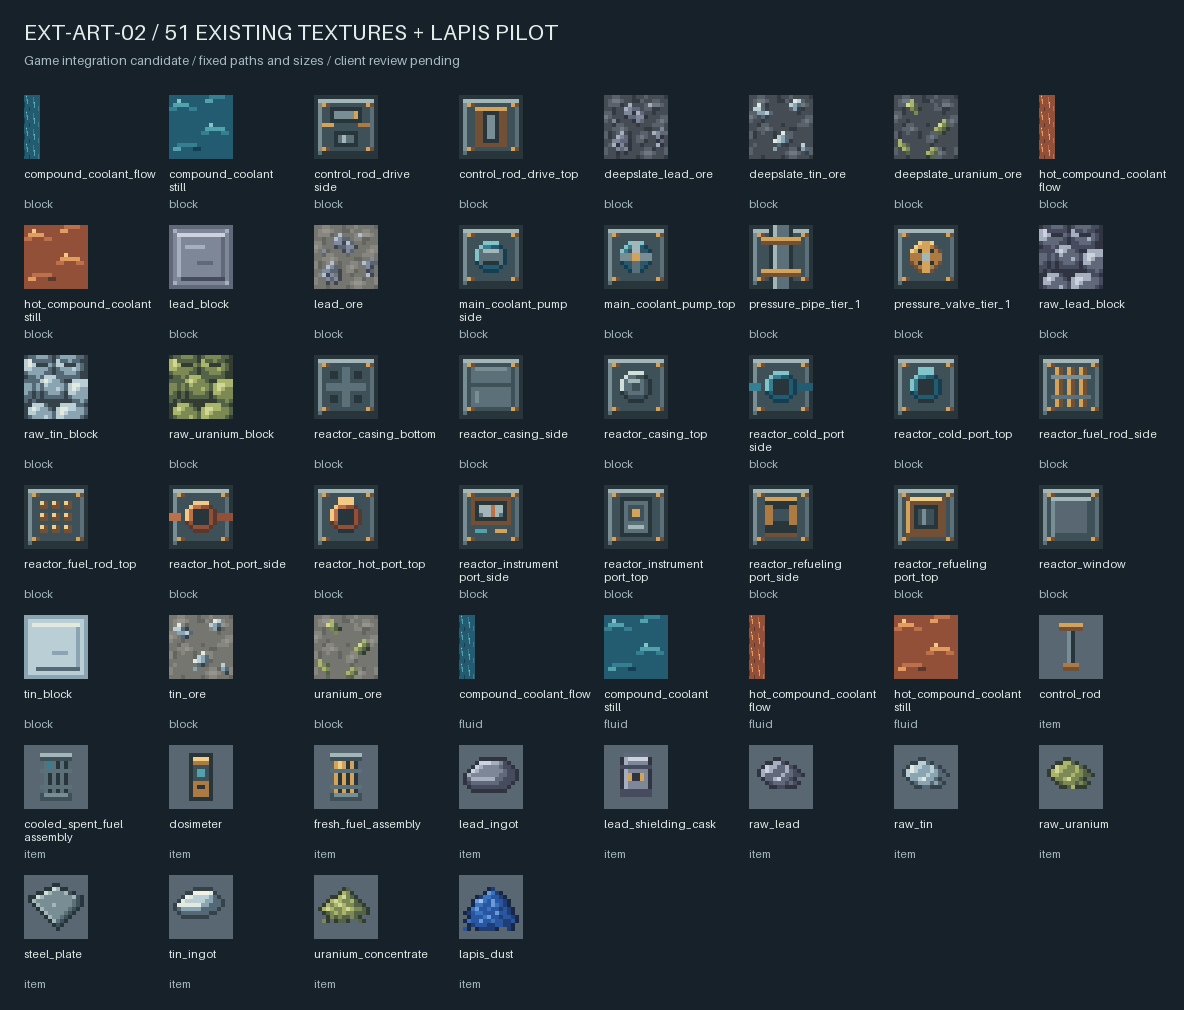
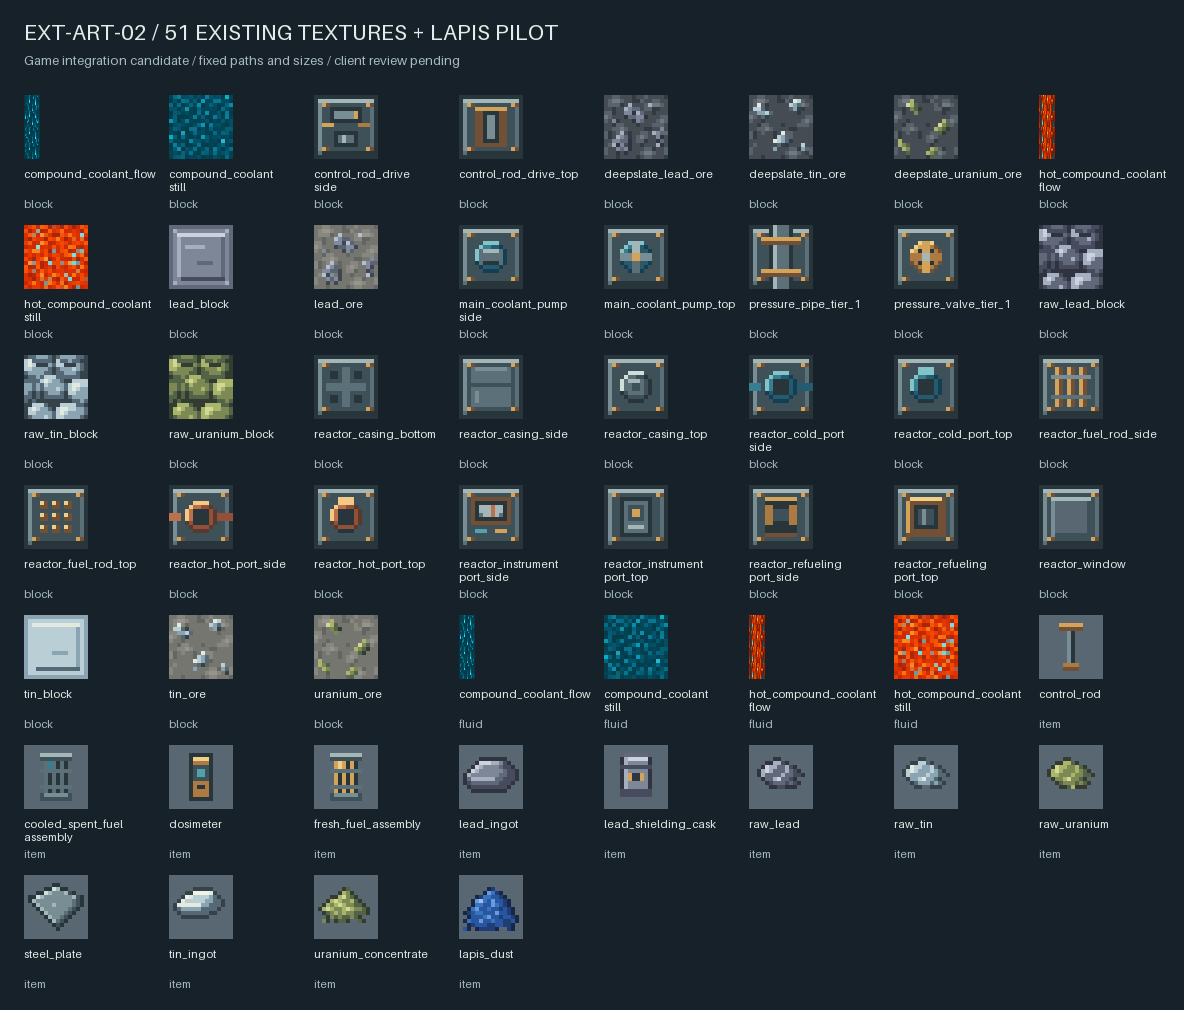
恢复两种冷却剂旧贴图并防止批量导出覆盖

diff --git a/tools/art-assets/preview.html b/tools/art-assets/preview.html
@@ -1,1 +1,1 @@
-<!doctype html><html lang="zh-CN"><meta charset="utf-8"><title>EXT-ART-02 全量贴图对照</title><style>body{background:#17212a;color:#e3ece8;font:16px system-ui;margin:24px}figure{margin:24px 0}img{max-width:100%;height:auto;image-rendering:pixelated}figcaption{margin-top:8px}</style><h1>EXT-ART-02 全量贴图对照</h1><p>原路径 51 张重绘，另保留青金石粉候选。每页含前后、原尺寸、明暗底与平铺；屏幕缩放会改变原尺寸显示。客户端视觉验收待用户完成。</p><figure><img src="previews/minerals-1.png" alt="previews/minerals-1.png"><figcaption>previews/minerals-1.png</figcaption></figure><figure><img src="previews/minerals-2.png" alt="previews/minerals-2.png"><figcaption>previews/minerals-2.png</figcaption></figure><figure><img src="previews/reactor-1.png" alt="previews/reactor-1.png"><figcaption>previews/reactor-1.png</figcaption></figure><figure><img src="previews/reactor-2.png" alt="previews/reactor-2.png"><figcaption>previews/reactor-2.png</figcaption></figure><figure><img src="previews/reactor-3.png" alt="previews/reactor-3.png"><figcaption>previews/reactor-3.png</figcaption></figure><figure><img src="previews/items-1.png" alt="previews/items-1.png"><figcaption>previews/items-1.png</figcaption></figure><figure><img src="previews/items-2.png" alt="previews/items-2.png"><figcaption>previews/items-2.png</figcaption></figure><figure><img src="previews/coolant-1.png" alt="previews/coolant-1.png"><figcaption>previews/coolant-1.png</figcaption></figure></html>
+<!doctype html><html lang="zh-CN"><meta charset="utf-8"><title>EXT-ART-02 全量贴图对照</title><style>body{background:#17212a;color:#e3ece8;font:16px system-ui;margin:24px}figure{margin:24px 0}img{max-width:100%;height:auto;image-rendering:pixelated}figcaption{margin-top:8px}</style><h1>EXT-ART-02 全量贴图对照</h1><p>51 个原路径：43 张保留重绘，8 张冷却剂按 EXT-ART-02A 恢复原图，另保留青金石粉候选。冷却剂 BEFORE 为重绘前原图，RESTORED 为本次恢复结果。每页含原尺寸、明暗底与平铺；屏幕缩放会改变原尺寸显示。冷却剂客户端视觉复验待用户完成。</p><figure><img src="previews/minerals-1.png" alt="previews/minerals-1.png"><figcaption>previews/minerals-1.png</figcaption></figure><figure><img src="previews/minerals-2.png" alt="previews/minerals-2.png"><figcaption>previews/minerals-2.png</figcaption></figure><figure><img src="previews/reactor-1.png" alt="previews/reactor-1.png"><figcaption>previews/reactor-1.png</figcaption></figure><figure><img src="previews/reactor-2.png" alt="previews/reactor-2.png"><figcaption>previews/reactor-2.png</figcaption></figure><figure><img src="previews/reactor-3.png" alt="previews/reactor-3.png"><figcaption>previews/reactor-3.png</figcaption></figure><figure><img src="previews/items-1.png" alt="previews/items-1.png"><figcaption>previews/items-1.png</figcaption></figure><figure><img src="previews/items-2.png" alt="previews/items-2.png"><figcaption>previews/items-2.png</figcaption></figure><figure><img src="previews/coolant-1.png" alt="previews/coolant-1.png"><figcaption>previews/coolant-1.png</figcaption></figure></html>

diff --git a/tools/art-assets/pipeline.py b/tools/art-assets/pipeline.py
@@ -1,7 +1,7 @@
 """EXT-ART-02 固定白名单管线，先验证全部输入，再输出候选或显式接入游戏。
 
 无游戏逻辑、注册、模型或动画修改。清单仅允许基线 51 PNG 和一个工具候选；
-保留完整 flow 画布，block/fluid 的兼容路径明确共用一张源稿。
+保留完整 flow 画布；EXT-ART-02A 的八项冷却剂按各自原始 PNG 保留。
 """
 import argparse
 import hashlib
@@ -67,6 +67,19 @@ item/steel_plate.png
 item/tin_ingot.png
 item/uranium_concentrate.png'''.splitlines())
 
+# 用户批准的原始 PNG 例外，路径与哈希均冻结；不能借 manifest 导入任意位图。
+# block/fluid 分别核对，即使当前字节相同也不以兼容路径替代原图。
+RETAINED_ORIGINALS = {
[8 lines of base64/hex data omitted]
+}
+
 
 def load_manifest():
     """验证路径、尺寸、用途及兼容映射，禁止 manifest 扩大游戏写集。"""
@@ -82,7 +95,11 @@ def load_manifest():
     if sum(e.get('game') is None for e in entries)!=1:
         raise ValueError('只能有一个工具候选')
     for e in entries:
-        if set(e)!={'game','source','palette','size','kind','group','use'}:
+        fields={'game','source','palette','size','kind','group','use'}
+        if e['game'] in RETAINED_ORIGINALS:
+            fields.add('preserve')
+            if e.get('preserve')!='baseline-original':raise ValueError('冷却剂必须保留已批准原图')
+        if set(e)!=fields:
             raise ValueError('manifest 记录字段不匹配')
         game=e['game']; name=game or 'item/lapis_dust.png'
         source=('fluid/'+name.split('/')[-1] if 'compound_coolant' in name else name)[:-4]+'.svg'
@@ -114,7 +131,7 @@ def validate_alpha(entry,image):
 
 def prepare():
     """先完整解析全部源和基线；调用者在此成功返回之前不能写任何输出。"""
-    entries=load_manifest();palette=read_palette();images={};before={}
+    entries=load_manifest();palette=read_palette();images={};before={};retained={}
     if set(palette)!={e['palette'] for e in entries}:raise ValueError('清单与色板集合不同')
     for e in entries:
         key=e['game'] or 'item/lapis_dust.png'
@@ -124,7 +141,16 @@ def prepare():
         if e['game']:
             with Image.open(ROOT/'baseline'/key) as old:before[key]=old.convert('RGBA')
             if list(before[key].size)!=e['size']:raise ValueError('基线尺寸不匹配')
-    return entries,images,before
+        if key in RETAINED_ORIGINALS:
+            data=(ROOT/'baseline'/key).read_bytes()
+            if hashlib.sha256(data).hexdigest()!=RETAINED_ORIGINALS[key]:
+                raise ValueError(f'{key}: 固定保留原图哈希不匹配')
+            with Image.open(io.BytesIO(data)) as original:
+                validate_alpha(e,original)
+                images[key]=original.copy()
+            # 预览只解码；输出直接使用已验证的原字节，禁止重编码或套用新色板。
+            retained[key]=data
+    return entries,images,before,retained
 
 
 def png_bytes(image):
@@ -158,7 +184,7 @@ def previews(entries,images,before):
                 label=key[:-4];split=label.rfind('_',0,30) if len(label)>30 else -1
                 lines=[label] if split<0 else [label[:split],label[split+1:]]
                 for j,line in enumerate(lines):draw.text((x+10,y+10+j*16),line,font=font,fill='#ECF0EB')
-                draw.text((x+10,y+49),'BEFORE' if e['game'] else 'APPROVED PILOT',font=small,fill='#A6B9C2');draw.text((x+138,y+49),'AFTER' if e['game'] else 'UNCHANGED',font=small,fill='#DDE5CF')
+                draw.text((x+10,y+49),'BEFORE' if e['game'] else 'APPROVED PILOT',font=small,fill='#A6B9C2');draw.text((x+138,y+49),'RESTORED' if key in RETAINED_ORIGINALS else ('AFTER' if e['game'] else 'UNCHANGED'),font=small,fill='#DDE5CF')
                 scale=2 if im.height==64 else 7
                 image_on(sheet,old,x+10,y+67,scale,'#D8D9D4');image_on(sheet,im,x+138,y+67,scale,'#D8D9D4')
                 image_on(sheet,im,x+10,y+208,1,'#69737A');draw.text((x+38,y+210),'1x',font=small,fill='#A6B9C2')
@@ -185,7 +211,7 @@ def previews(entries,images,before):
         for j,line in enumerate(lines):od.text((x,y+72+j*13),line,font=small,fill='#E3ECE8')
         od.text((x,y+102),key.split('/')[0],font=small,fill='#A6B9C2')
     outputs['preview.png']=png_bytes(overview)
-    outputs['preview.html']=('''<!doctype html><html lang="zh-CN"><meta charset="utf-8"><title>EXT-ART-02 全量贴图对照</title><style>body{background:#17212a;color:#e3ece8;font:16px system-ui;margin:24px}figure{margin:24px 0}img{max-width:100%;height:auto;image-rendering:pixelated}figcaption{margin-top:8px}</style><h1>EXT-ART-02 全量贴图对照</h1><p>原路径 51 张重绘，另保留青金石粉候选。每页含前后、原尺寸、明暗底与平铺；屏幕缩放会改变原尺寸显示。客户端视觉验收待用户完成。</p>'''+links+'</html>\n').encode('utf-8')
+    outputs['preview.html']=('''<!doctype html><html lang="zh-CN"><meta charset="utf-8"><title>EXT-ART-02 全量贴图对照</title><style>body{background:#17212a;color:#e3ece8;font:16px system-ui;margin:24px}figure{margin:24px 0}img{max-width:100%;height:auto;image-rendering:pixelated}figcaption{margin-top:8px}</style><h1>EXT-ART-02 全量贴图对照</h1><p>51 个原路径：43 张保留重绘，8 张冷却剂按 EXT-ART-02A 恢复原图，另保留青金石粉候选。冷却剂 BEFORE 为重绘前原图，RESTORED 为本次恢复结果。每页含原尺寸、明暗底与平铺；屏幕缩放会改变原尺寸显示。冷却剂客户端视觉复验待用户完成。</p>'''+links+'</html>\n').encode('utf-8')
     return outputs
 
 
@@ -193,8 +219,8 @@ def main():
     parser=argparse.ArgumentParser(description='固定51张贴图SVG导出，默认不接入游戏')
     parser.add_argument('--install',action='store_true',help='显式覆盖固定51个已有PNG，不新增路径')
     args=parser.parse_args()
-    entries,images,before=prepare()
-    outputs={f'generated/{key}':png_bytes(im) for key,im in images.items()}
+    entries,images,before,retained=prepare()
+    outputs={f'generated/{key}':retained[key] if key in retained else png_bytes(im) for key,im in images.items()}
     outputs.update(previews(entries,images,before))
     game_outputs={e['game']:outputs['generated/'+e['game']] for e in entries if e['game']}
     if args.install:

diff --git a/tools/art-assets/verify.py b/tools/art-assets/verify.py
@@ -1,4 +1,4 @@
-"""离线验收51张既有贴图：清单、独立像素对照、复现性和失败不写出。
+"""离线核对51张既有贴图：原冷却剂保留、SVG像素、复现性和失败不写出。
 
 只在显式执行本脚本时做临时坏输入实验，finally 原样恢复源稿/清单。
 不调用游戏、Gradle 或 Git 写操作；结果保存在本任务证据目录。
@@ -18,10 +18,15 @@ import pipeline
 from export import render_svg, read_palette, ROOT
 
 REPO=ROOT.parents[1]
-EVIDENCE=REPO/'build/reports/extension/EXT-ART-02'
+EVIDENCE=REPO/'build/reports/extension/EXT-ART-02A'
 EVIDENCE.mkdir(parents=True,exist_ok=True)
 ENV=dict(os.environ,PYTHONIOENCODING='utf-8',PYTHONDONTWRITEBYTECODE='1')
 log=[]
+# 用户只撤回两种冷却剂的八条路径；独立列举，避免随管线白名单错误一起放宽。
+RETAINED_COOLANTS=frozenset(f'{directory}/{name}_{state}.png'
+    for directory in ('block','fluid')
+    for name in ('compound_coolant','hot_compound_coolant')
+    for state in ('still','flow'))
 
 
 def digest(path):
@@ -42,7 +47,7 @@ def state():
     return {p.relative_to(REPO).as_posix():digest(p) for p in sorted(paths)}
 
 
-entries,images,before=pipeline.prepare();palette=read_palette()
+entries,images,before,retained=pipeline.prepare();palette=read_palette()
 baseline=json.loads((ROOT/'baseline.json').read_text(encoding='utf-8'))
 assert {r['game'] for r in baseline['records']}==pipeline.GAME_FILES
 assert len(entries)==52
@@ -50,6 +55,14 @@ assert Counter(tuple(e['size']) for e in entries if e['game'])=={(16,16):47,(16,
 results={'python':sys.version,'pillow':pillow_version,'baseline':baseline['head'],'game_count':51,'source_count':len({e['source'] for e in entries}),'records':[]}
 for e in entries:
     name=e['game'] or 'item/lapis_dust.png'
+    if name in RETAINED_COOLANTS:
+        original=subprocess.check_output(['git','show',f'eddd097^:src/main/resources/assets/create_nuclear_industry/textures/{name}'],cwd=REPO)
+        assert (ROOT/'generated'/name).read_bytes()==original==(ROOT/'baseline'/name).read_bytes(),f'冷却剂必须逐字节保留原图: {name}'
+        with Image.open(ROOT/'generated'/name) as output:
+            pipeline.validate_alpha(e,output)
+            assert output.tobytes()==images[name].tobytes()
+        results['records'].append({'game':name,'size':e['size'],'retained_original_sha256':hashlib.sha256(original).hexdigest()})
+        continue
     source=ROOT/'sources'/e['source']
     # 独立使用 Pillow 矩形 API，核对导出器手动覆盖像素的坐标和边界。
     reference=Image.new('RGBA',tuple(e['size']));draw=ImageDraw.Draw(reference)
@@ -107,36 +120,39 @@ for _ in range(2):run();assert state()==prior,'默认导出非确定或改动了
 results['default_repeat_exports']=2
 
 # 临时向后序源稿加入未知元素，确认真实CLI在写第一个输出前就失败。
-source=ROOT/'sources/item/uranium_concentrate.svg';saved=source.read_bytes()
+source=ROOT/'sources/fluid/hot_compound_coolant_still.svg';saved=source.read_bytes()
 try:
     source.write_text(saved.decode('utf-8').replace('</svg>','<circle/></svg>'),encoding='utf-8')
     run('--install',good=False);assert state()==prior
 finally:source.write_bytes(saved)
 
 manifest=ROOT/'manifest.json';saved=manifest.read_bytes()
-for mutation in ('extra_path','wrong_size','wrong_mapping'):
+for mutation in ('extra_path','wrong_size','wrong_mapping','unauthorized_preserve','missing_preserve'):
     data=json.loads(saved)
     if mutation=='extra_path':data['entries'][0]['game']='block/not_authorized.png'
     elif mutation=='wrong_size':data['entries'][0]['size']=[16,16]
-    else:data['entries'][0]['source']='../outside.svg'
+    elif mutation=='wrong_mapping':data['entries'][0]['source']='../outside.svg'
+    elif mutation=='unauthorized_preserve':data['entries'][2]['preserve']='baseline-original'
+    else:data['entries'][0].pop('preserve',None)
     try:
         manifest.write_text(json.dumps(data),encoding='utf-8')
         run('--install',good=False);assert state()==prior
     finally:manifest.write_bytes(saved)
-results['cli_failure_no_writes']=['unsupported_svg','extra_path','wrong_size','wrong_mapping']
+results['cli_failure_no_writes']=['unsupported_svg','extra_path','wrong_size','wrong_mapping','unauthorized_preserve','missing_preserve']
 
-# 显式接入是本卡授权步骤；51文件逐一对照，block/fluid兼容路径必须字节一致。
+# 显式接入后逐条核对：八项冷却剂保留各自旧字节，其余43张保持重绘。
 run('--install')
 assert {p.relative_to(pipeline.GAME_ROOT).as_posix() for p in pipeline.GAME_ROOT.rglob('*.png')}==pipeline.GAME_FILES
 for e in entries:
     if e['game']:
         assert (pipeline.GAME_ROOT/e['game']).read_bytes()==(ROOT/'generated'/e['game']).read_bytes()
-        assert (pipeline.GAME_ROOT/e['game']).read_bytes()!=(ROOT/'baseline'/e['game']).read_bytes(),'既有纹理未重绘'
-for suffix in ('compound_coolant_flow','compound_coolant_still','hot_compound_coolant_flow','hot_compound_coolant_still'):
-    assert (pipeline.GAME_ROOT/'block'/f'{suffix}.png').read_bytes()==(pipeline.GAME_ROOT/'fluid'/f'{suffix}.png').read_bytes()
+        if e['game'] in RETAINED_COOLANTS:
+            assert (pipeline.GAME_ROOT/e['game']).read_bytes()==(ROOT/'baseline'/e['game']).read_bytes(),'旧冷却剂被再次覆盖'
+        else:
+            assert (pipeline.GAME_ROOT/e['game']).read_bytes()!=(ROOT/'baseline'/e['game']).read_bytes(),'既有纹理未重绘'
 after=state();run('--install');assert state()==after
 results['install_repeat_exports']=2
-results['source_generated_game_equal']=True
+results['svg_or_retained_original_generated_game_equal']=True
 results['output_hashes']=after
 results['result']='PASS'
 (EVIDENCE/'verification.json').write_text(json.dumps(results,ensure_ascii=False,indent=2)+'\n',encoding='utf-8')

diff --git a/tools/art-assets/export.py b/tools/art-assets/export.py
@@ -1,6 +1,7 @@
 """严格像素 SVG 渲染器及 EXT-ART-02 离线导出入口。
 
-默认输入为 manifest 指定 SVG 和色板；默认只输出 generated 和预览。
+默认输入为 manifest 指定 SVG 和色板，八项冷却剂按批准哈希保留原 PNG；
+默认只输出 generated 和预览。
 显式 --install 通过固定白名单接入原有 51 个游戏路径，由 pipeline 管理。
 受限 SVG 使用整数 rect 和色板内的 #RRGGBB，按文档顺序覆盖像素。
 任何不支持的元素、属性或非空文本均报错；全部源稿验证后才开始写出。
